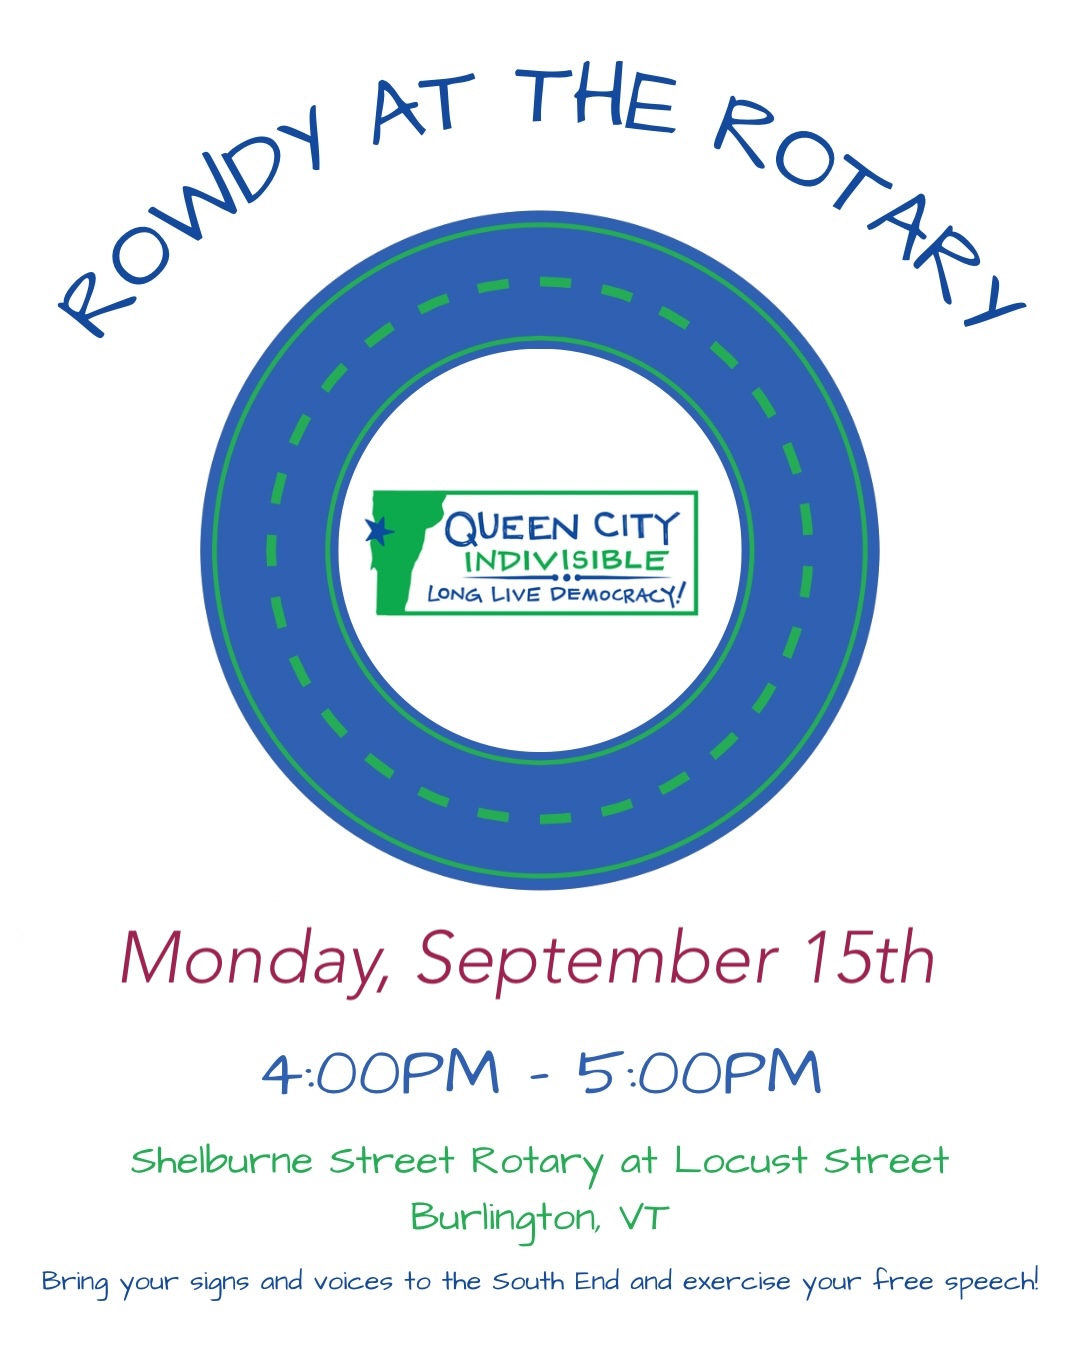
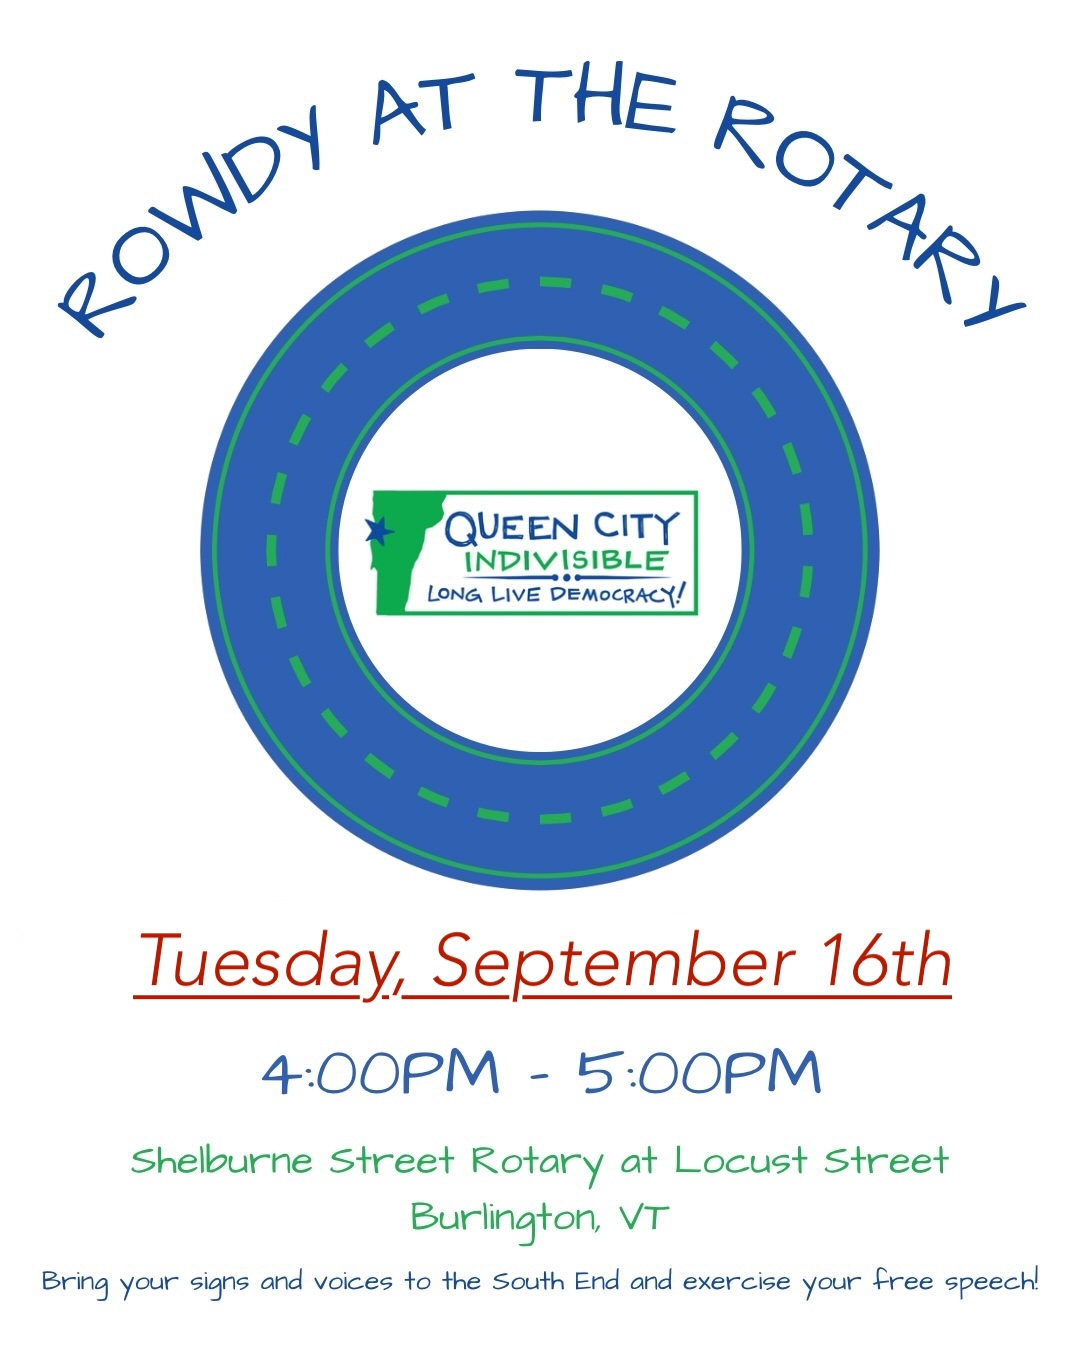
adj date

Changed region(s): [[0.0917, 0.6844, 0.8861, 0.7467]]

diff --git a/call_to_action.html b/call_to_action.html
@@ -15,7 +15,7 @@
 Call to Action
 </H1>
 <ul>
-	<li>Rowdy at the Rotary! - Monday, September 15, 4:00-5:00 PM:
+	<li>Rowdy at the Rotary! - <EM>Tuesday, September 16</EM>, 4:00-5:00 PM:
 		<BR><a href="docs/assets/newsletters/rowdy_at_the_rotary_again.jpg">
 		<img src="docs/assets/newsletters/rowdy_at_the_rotary_again.jpg" alt="Rowdy at the Rotary! - Monday, September 15, 4:00-5:00 PM" width=600>
 		</a></li>
@@ -41,7 +41,7 @@ Call to Action
 
 <P>
 <img src="docs/assets/img/QCVI-logo3.png" alt="QCVI logo" width="24" height="24">
-QCVI - September 11, 2025
+QCVI - September 12, 2025
 </P>
 </BODY>
 </HTML>

diff --git a/docs/assets/newsletters/newsletter-0910.html b/docs/assets/newsletters/newsletter-0910.html
@@ -113,7 +113,7 @@ here</a>
 Rowdy at the rotary! </strong>
 </p>
 <p style="margin: 0; font-style: normal; font-weight: 400; text-decoration-thickness: initial; text-decoration-style: initial;">
-Monday, September 15 | 4:00-5:00 PM</p>
+<em>Tuesday, September 16 | 4:00-5:00 PM</em></p>
 <p style="margin: 0; font-style: normal; font-weight: 400; text-decoration-thickness: initial; text-decoration-style: initial;">
 Shelburne Street Rotary at Locust Street | Burlington</p>
 <p style="margin: 0; font-style: normal; font-weight: 400; text-decoration-thickness: initial; text-decoration-style: initial;">
